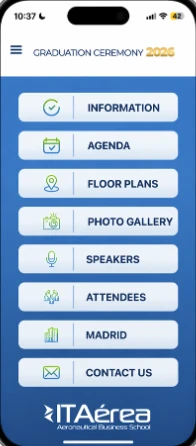
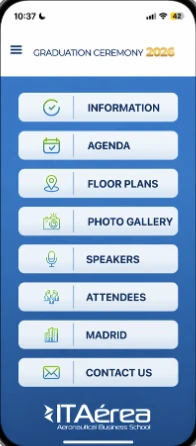
App de ITAérea en Events sin la isla duplicada de la cámara
Se tapa la isla de la captura (queda la del marco de iPhone). Nueva opción
"fill" en optimize_images.py para tapar zonas de una imagen.

Changed region(s): [[0.3367, 0.0, 0.6735, 0.0583]]

diff --git a/scripts/optimize_images.py b/scripts/optimize_images.py
@@ -100,7 +100,7 @@ JOBS = {
     # captura de la app de WAGA 2026 en un iPhone, recortada al teléfono y sin el fondo blanco (celular del frente en Tech Solutions)
     "svc-app-waga.webp":    ("waga-app.jpg",                            520, 84, {"box": (380, 0, 1700, 2490), "clearbg": True, "trim": True, "cutbottom": 11}),
     # app de la graduación de ITAérea 2026 (captura chica, 262x503, con iPhone incluido: se recorta la pantalla; pedir una más grande): teléfono del medio en Events
-    "svc-app-itaerea.webp": ("itaerea-app-home.png",                    360, 90, {"box": (40, 31, 236, 477)}),  # solo la pantalla: va dentro de nuestro marco de iPhone
+    "svc-app-itaerea.webp": ("itaerea-app-home.png",                    360, 90, {"box": (40, 31, 236, 477), "fill": [((62, 3, 136, 28), (254, 254, 254))]}),  # solo la pantalla, sin la isla de la captura (la pone nuestro marco)
     # el mismo iPhone con la pantalla vaciada (transparente, conserva la isla): detrás se pone un degradado en CSS.
     # coordenadas sobre la salida de 520 px: (izq, arriba, der, abajo, radio) de la pantalla y de la isla
     # capturas reales de la app de ALTA para las pantallas de los teléfonos de atrás (Tech Solutions)
@@ -403,6 +403,11 @@ def main():
             im = im.crop(opts["box"])
         if opts.get("portrait") is not None:
             im = make_portrait(im, **opts["portrait"])
+        if opts.get("fill"):  # tapar zonas con un color: [((x0, y0, x1, y1), (r, g, b)), ...] sobre la imagen ya recortada
+            from PIL import ImageDraw as _D
+            d = _D.Draw(im)
+            for box, color in opts["fill"]:
+                d.rectangle(box, fill=color + (255,))
         if opts.get("blur"):
             im = blur_boxes(im, opts["blur"])
         if opts.get("square"):  # recorte cuadrado (retratos): "top" conserva la parte alta, "center" el centro
